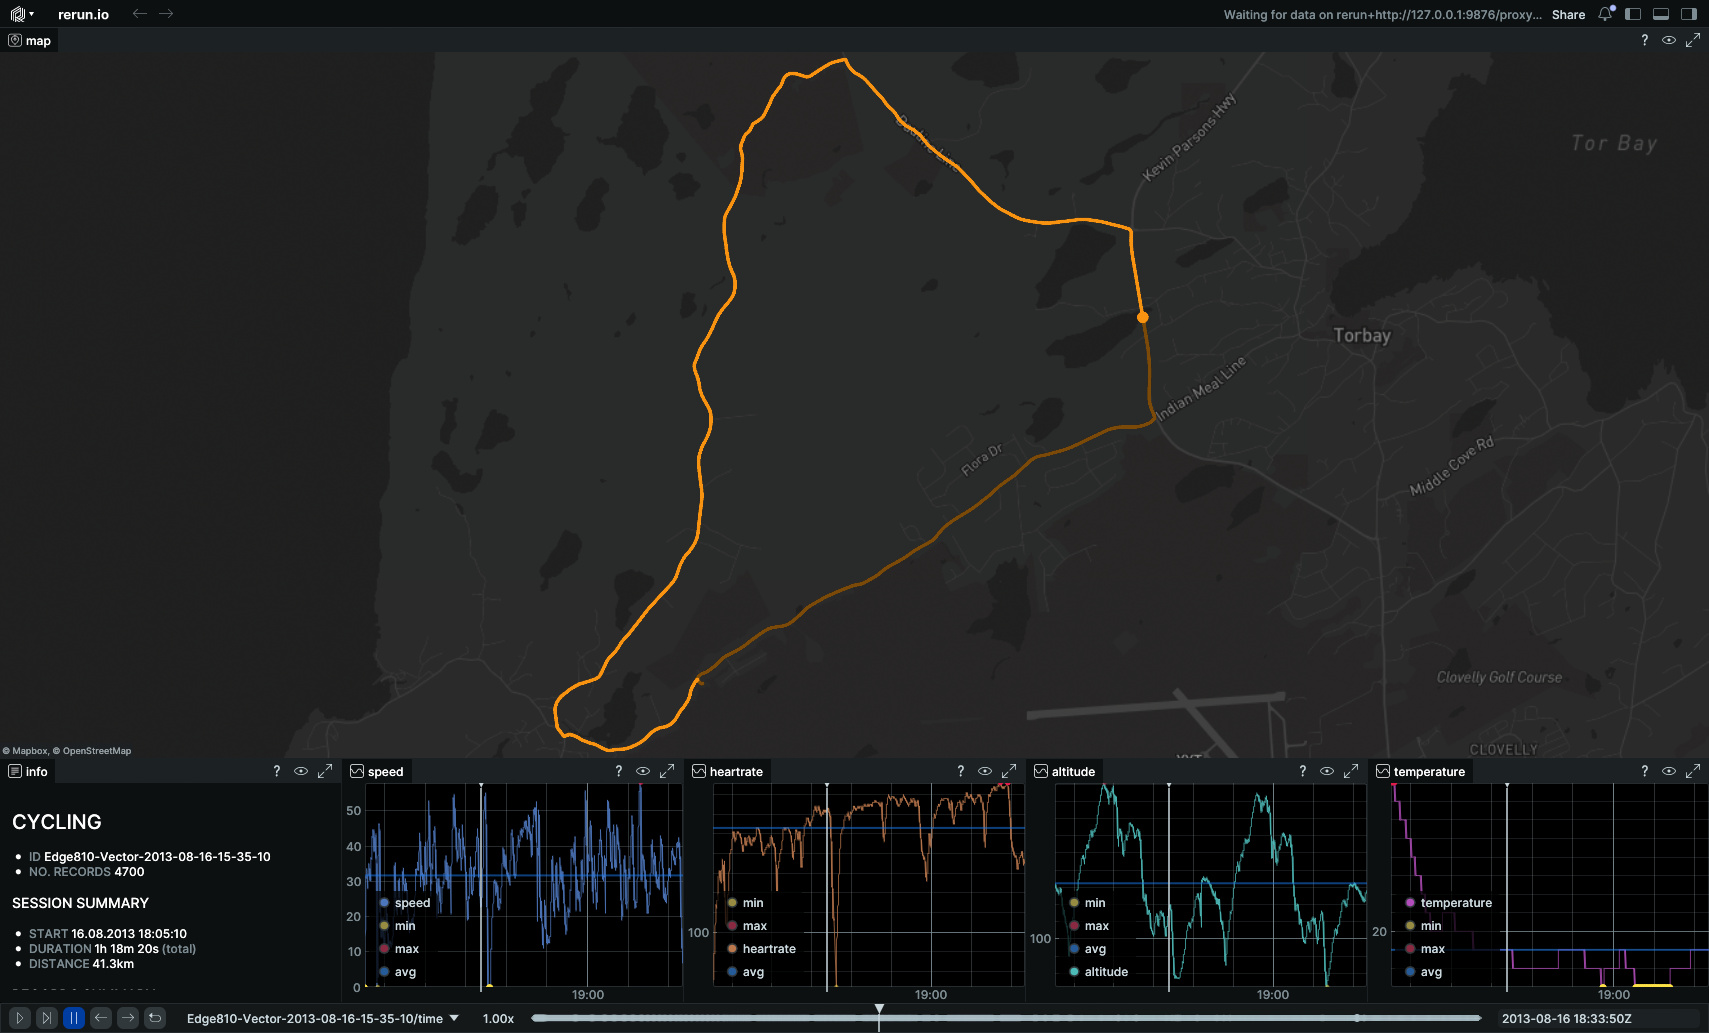
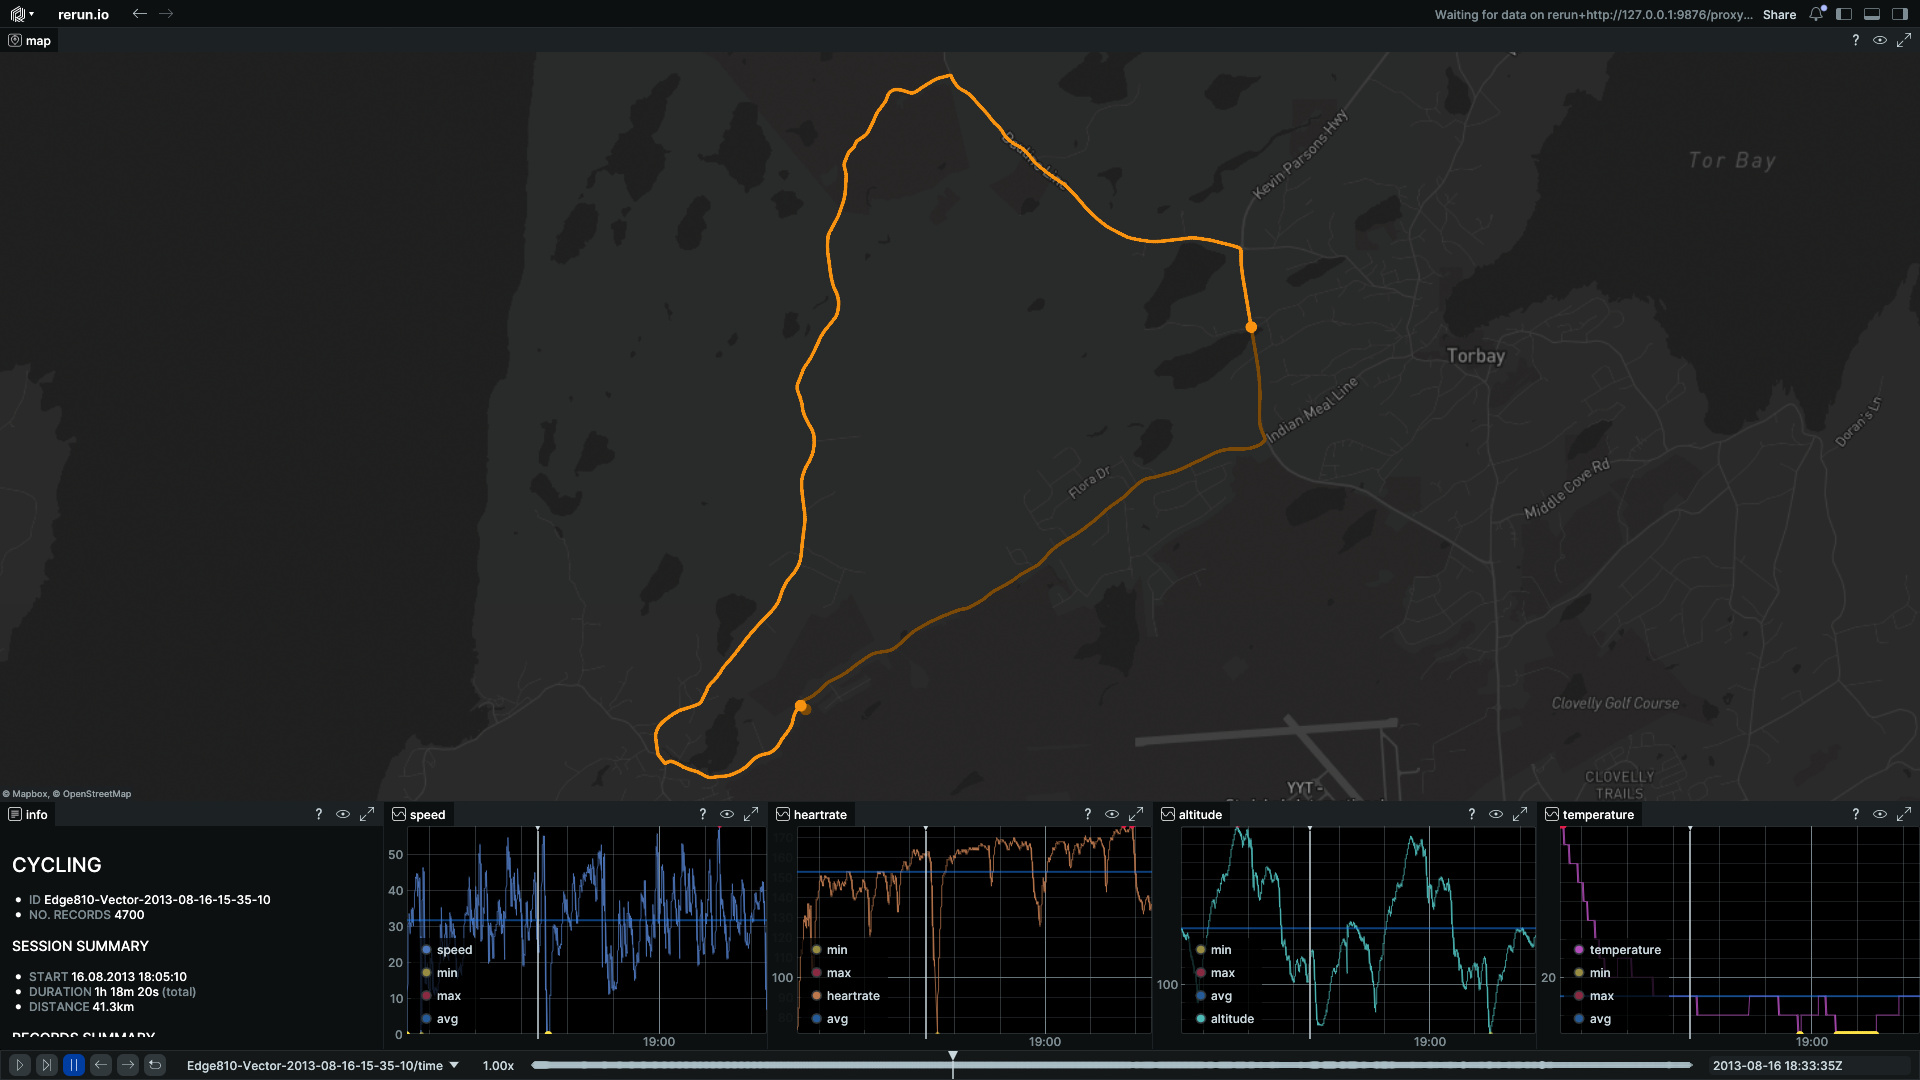
feat(map): start/finish point (#6)

diff --git a/src/fit_activities_rerun/main.py b/src/fit_activities_rerun/main.py
@@ -634,17 +634,44 @@ def log_data(act: Activity):
             p: Position = (record.position_lat, record.position_long)
             activity_positions.append(p)
 
-    # show all route
-    rr.log(
-        f"{id}/route/all",
-        rr.GeoLineStrings(
-            lat_lon=activity_positions,
-            radii=rr.Radius.ui_points(2),
-            colors=0xF793117F,
-        ),
-        (),
-        static=True,
-    )
+    if activity_positions:
+        # start point
+        first = activity_positions[0]
+        rr.log(
+            f"{id}/route/all/start",
+            rr.GeoPoints(
+                lat_lon=first,
+                radii=rr.Radius.ui_points(6.0),
+                colors=0xF79311FF,
+            ),
+            (),
+            static=True,
+        )
+
+        # all route
+        rr.log(
+            f"{id}/route/all",
+            rr.GeoLineStrings(
+                lat_lon=activity_positions,
+                radii=rr.Radius.ui_points(2),
+                colors=0xF793117F,
+            ),
+            (),
+            static=True,
+        )
+
+        # finish point
+        last = activity_positions[-1]
+        rr.log(
+            f"{id}/route/all/finish",
+            rr.GeoPoints(
+                lat_lon=last,
+                radii=rr.Radius.ui_points(6.0),
+                colors=0xF793117F,
+            ),
+            (),
+            static=True,
+        )
 
     for record in act.records:
         rr.set_time(f"{id}/time", timestamp=record.timestamp)
@@ -665,7 +692,7 @@ def log_data(act: Activity):
 
             # log point of current record
             rr.log(
-                f"{id}/route/destination",
+                f"{id}/route/current/location",
                 rr.GeoPoints(
                     lat_lon=pos,
                     radii=rr.Radius.ui_points(6.0),

diff --git a/README.md b/README.md
@@ -80,7 +80,7 @@ fit-activities-rerun --fit <path-to-fit-file>
 ### Example
 
 ```sh
-fit-activities-rerun --fit data/fitdecode/Edge810-Vector-2013-08-16-15-35-10.fit
+fit-activities-rerun --fit ./data/fitdecode/Edge810-Vector-2013-08-16-15-35-10.fit
 ```
 
 
